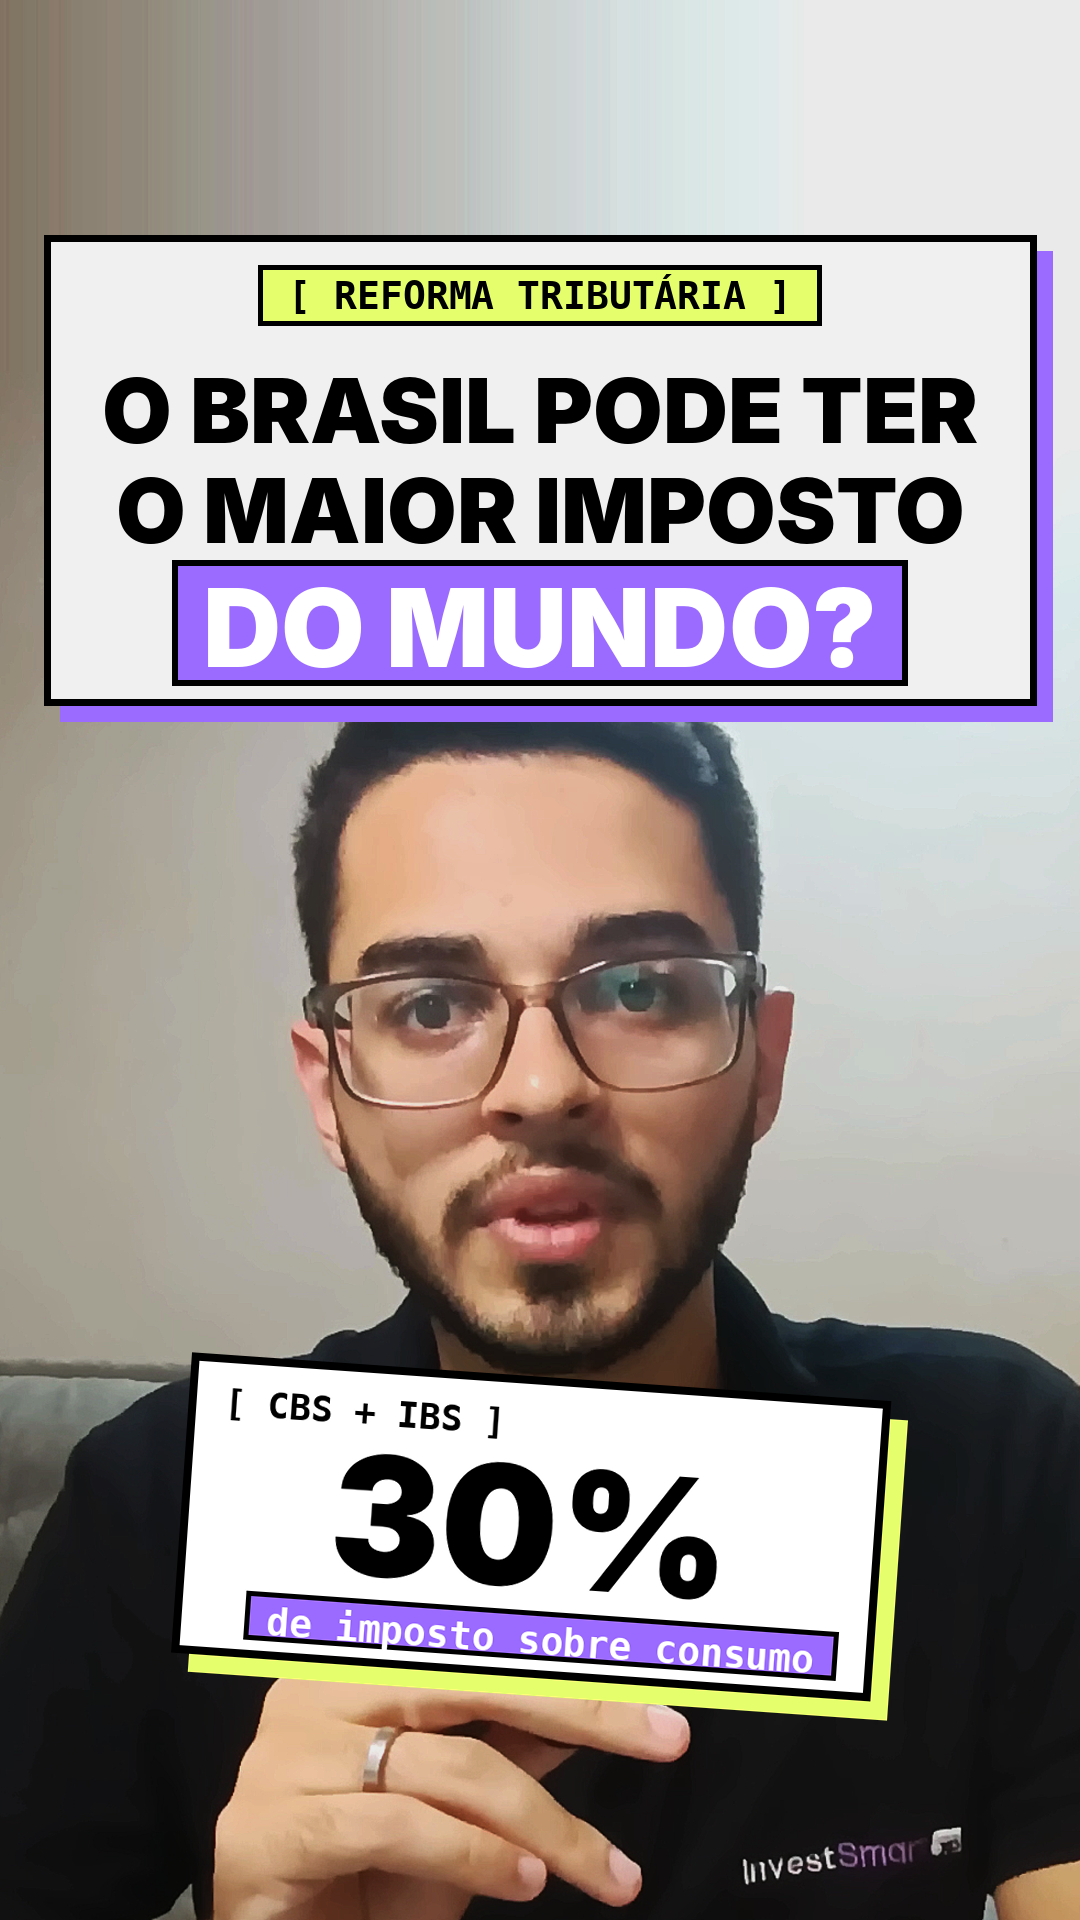
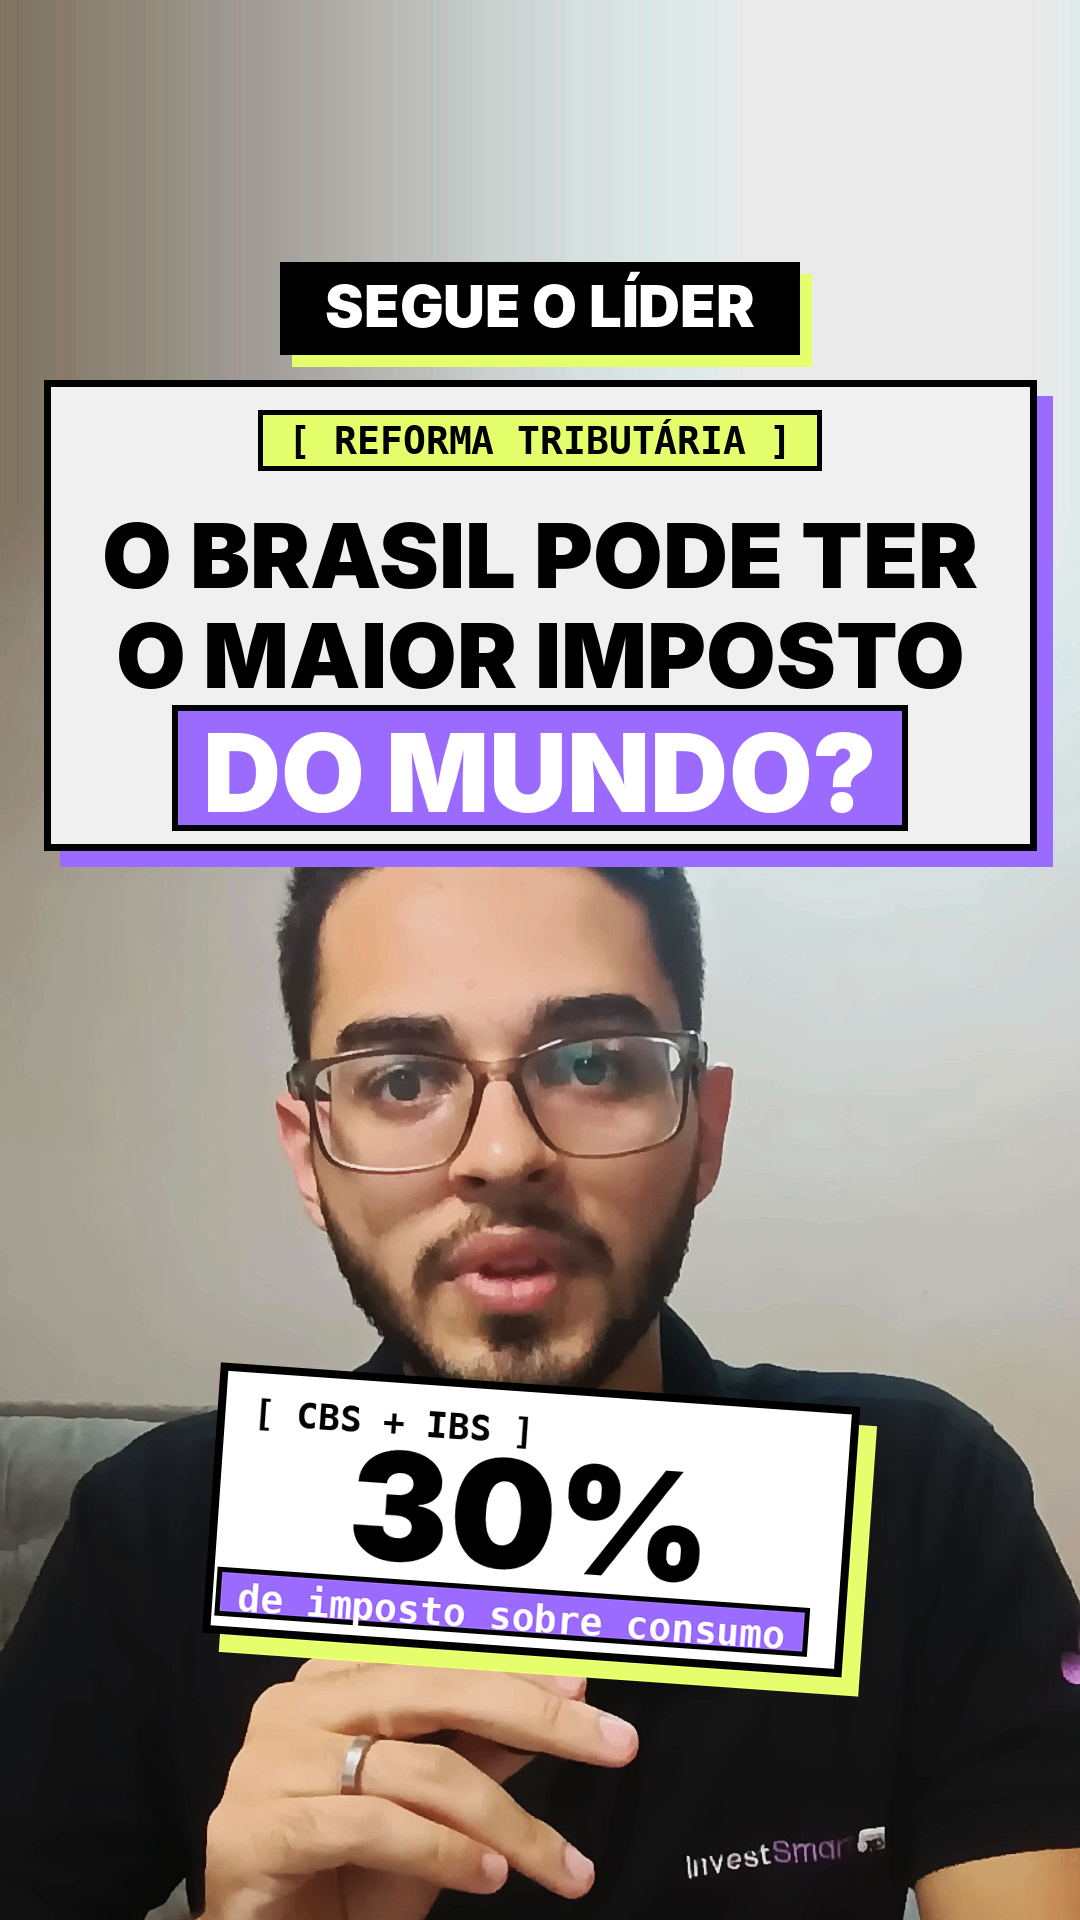
Capa: adiciona faixa Segue o Líder e ajusta para o recorte 3:4
Claude-Session: https://claude.ai/code/session_016iqyYWgDYK1AJqZxqB2LLi

diff --git a/scripts/reel/capa.py b/scripts/reel/capa.py
@@ -8,8 +8,8 @@ T = float(sys.argv[1]) if len(sys.argv) > 1 else 5.6          # tempo do mestre 
 raw = subprocess.run(["ffmpeg", "-v", "error", "-ss", str(T), "-i", "master.mp4", "-frames:v", "1", "-f", "rawvideo", "-pix_fmt", "bgr24", "-"], stdout=subprocess.PIPE, check=True).stdout
 fr = np.frombuffer(raw, np.uint8).reshape(H, W, 3)
 fd = json.load(open("face.json")); pts = np.array(fd["pts"]); i = int(T * fd["fps"]); cx, cy = pts[i, 0] * W, pts[i, 1] * H
-z = 1.1; cw, chh = W / z, H / z
-left = min(max(cx - cw / 2, 0), W - cw); top = cy - 1050 / z
+z = 1.0; cw, chh = W / z, H / z
+left = min(max(cx - cw / 2, 0), W - cw); top = cy - 1120 / z
 M = np.float32([[z, 0, -left * z], [0, z, -top * z]])
 out = cv2.warpAffine(fr, M, (W, H), flags=cv2.INTER_CUBIC, borderMode=cv2.BORDER_REPLICATE)
 bl = cv2.GaussianBlur(out, (0, 0), 1.4); out = cv2.addWeighted(out, 1.55, bl, -0.55, 0)
@@ -18,7 +18,7 @@ img = Image.fromarray(out[..., ::-1]).convert("RGBA")
 ROXO, LIMA, BLK, WH, CINZA = ET.ROXO, ET.LIMA, ET.BLK, (255, 255, 255, 255), ET.CINZA
 lay = Image.new("RGBA", (W, H), (0, 0, 0, 0)); d = ImageDraw.Draw(lay)
 # painel do titulo
-px0, px1, py0, py1 = 44, W - 44, 235, 705
+px0, px1, py0, py1 = 44, W - 44, 380, 850
 d.rectangle((px0 + 16, py0 + 16, px1 + 16, py1 + 16), fill=ROXO)
 d.rectangle((px0, py0, px1, py1), fill=CINZA, outline=BLK, width=7)
 ft = ET.mono(38); t = "[ REFORMA TRIBUTÁRIA ]"; tw = ET.tw(d, t, ft) + 60
@@ -31,16 +31,22 @@ wb = ET.tw(d, "DO MUNDO?", f2) + 60; bx = W / 2 - wb / 2; by = py0 + 325
 d.rectangle((bx, by, bx + wb, by + 125), fill=ROXO, outline=BLK, width=6)
 d.text((bx + 30, by + 2), "DO MUNDO?", font=f2, fill=WH)
 lay = ET.shadow(lay, 0, (0, 0), 0) if False else lay
+# faixa "SEGUE O LIDER" acima do painel
+fs = ET.inter("Black", 58); st = "SEGUE O LÍDER"; sw = ET.tw(d, st, fs) + 90
+sx = W / 2 - sw / 2
+d.rectangle((sx + 12, 262 + 12, sx + sw + 12, 262 + 92 + 12), fill=LIMA)
+d.rectangle((sx, 262, sx + sw, 262 + 92), fill=BLK, outline=BLK, width=6)
+d.text((sx + 45, 262 + 8), st, font=fs, fill=WH)
 # cartao 30%
-cw_, ch_ = 700, 300; card = Image.new("RGBA", (cw_ + 60, ch_ + 60), (0, 0, 0, 0)); c = ImageDraw.Draw(card)
+cw_, ch_ = 640, 270; card = Image.new("RGBA", (cw_ + 60, ch_ + 60), (0, 0, 0, 0)); c = ImageDraw.Draw(card)
 c.rectangle((38, 38, 38 + cw_, 38 + ch_), fill=LIMA)
 c.rectangle((20, 20, 20 + cw_, 20 + ch_), fill=WH, outline=BLK, width=8)
 c.text((56, 46), "[ CBS + IBS ]", font=ET.mono(36), fill=BLK)
-fv = ET.inter("Black", 165); c.text((20 + cw_ / 2 - ET.tw(c, "30%", fv) / 2, 70), "30%", font=fv, fill=BLK)
+fv = ET.inter("Black", 150); c.text((20 + cw_ / 2 - ET.tw(c, "30%", fv) / 2, 60), "30%", font=fv, fill=BLK)
 fb = ET.mono(38); bt = "de imposto sobre consumo"; bw = ET.tw(c, bt, fb) + 44
 c.rectangle((20 + cw_ - 36 - bw, 20 + ch_ - 66, 20 + cw_ - 36, 20 + ch_ - 18), fill=ROXO, outline=BLK, width=5)
 c.text((20 + cw_ - 36 - bw + 22, 20 + ch_ - 59), bt, font=fb, fill=WH)
 card = card.rotate(-4, resample=Image.BICUBIC, expand=True)
-lay.alpha_composite(card, (int(W / 2 - card.width / 2), 1330))
+lay.alpha_composite(card, (int(W / 2 - card.width / 2), 1340))
 img.alpha_composite(lay)
 img.convert("RGB").save(sys.argv[2] if len(sys.argv) > 2 else "capa.png")
